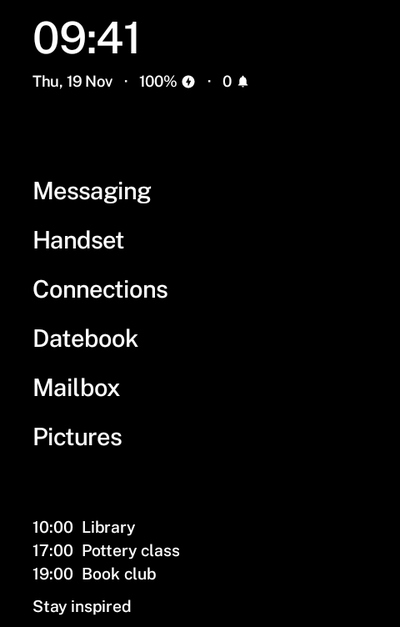
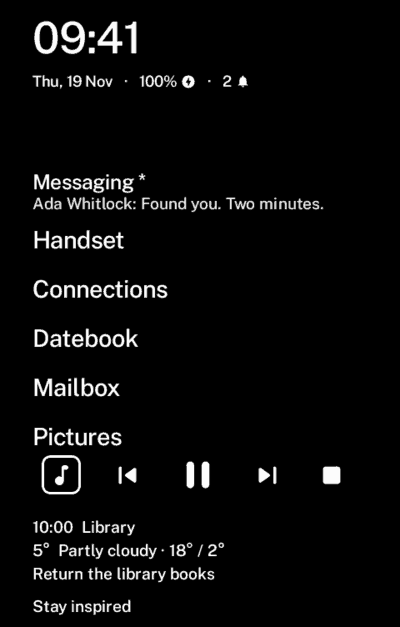
Home's picture: with the music strip playing

diff --git a/index.html b/index.html
@@ -279,7 +279,7 @@ can keep them updated. If it says "rate limit exceeded", give it a free GitHub t
      than the others, its screen beside what it adds. -->
 <div class="app home" id="iori">
   <img class="shot" src="shots/iori.png" data-dark="shots/dark/iori.png" width="400" height="627" loading="eager"
-       alt="Home's home screen: 09:41, the date, battery and notifications, six home apps by name (Messaging, Handset, Connections, Datebook, Mailbox, Pictures), and under them today's three events from Glance (Library, Pottery class, Book club) and the line Stay inspired">
+       alt="Home's home screen: 09:41, the date, battery and notifications, six home apps by name (Messaging, Handset, Connections, Datebook, Mailbox, Pictures), Messaging marked with an asterisk and its new text under it (Ada Whitlock: Found you. Two minutes.), the music strip with its controls while Music Box plays the made-up song Morning Mist, and under it three lines from Glance (10:00 Library, the weather, the pinned note Return the library books) and the line Stay inspired">
   <div class="home-text">
   <h4><svg class="mark" aria-hidden="true"><use href="#hut"/></svg>Home <button type="button" class="jp" aria-pressed="false" title="日本語で読む">/ 庵 iori</button></h4>
   <p class="en">Home is the home screen made for the apps on this page. It shows your apps as a short
